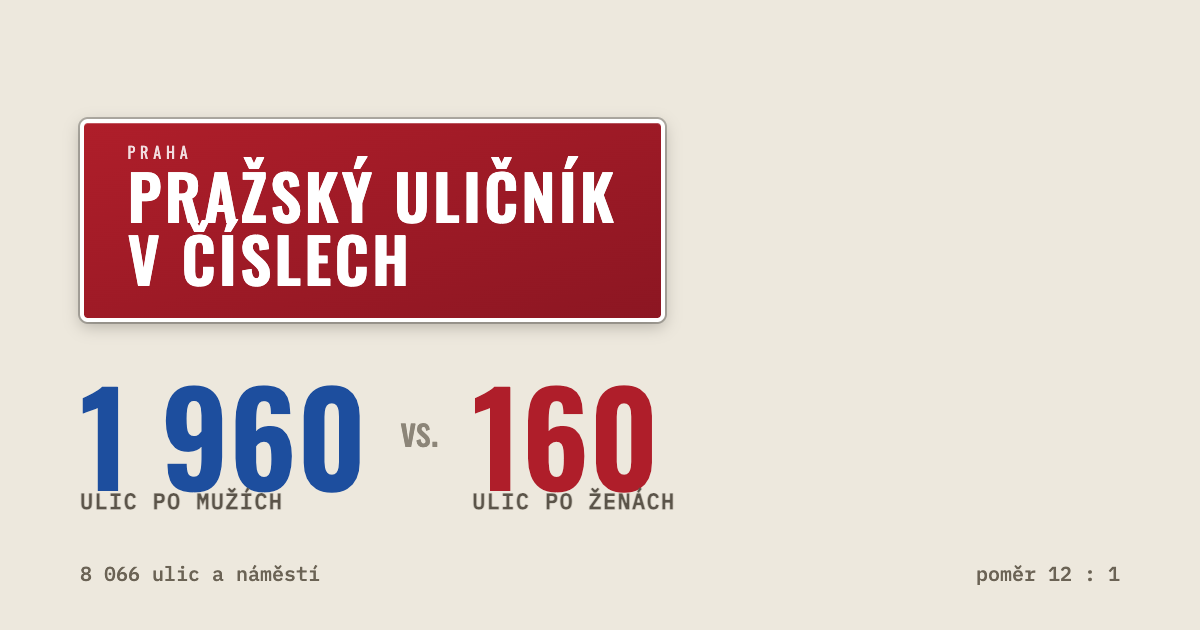
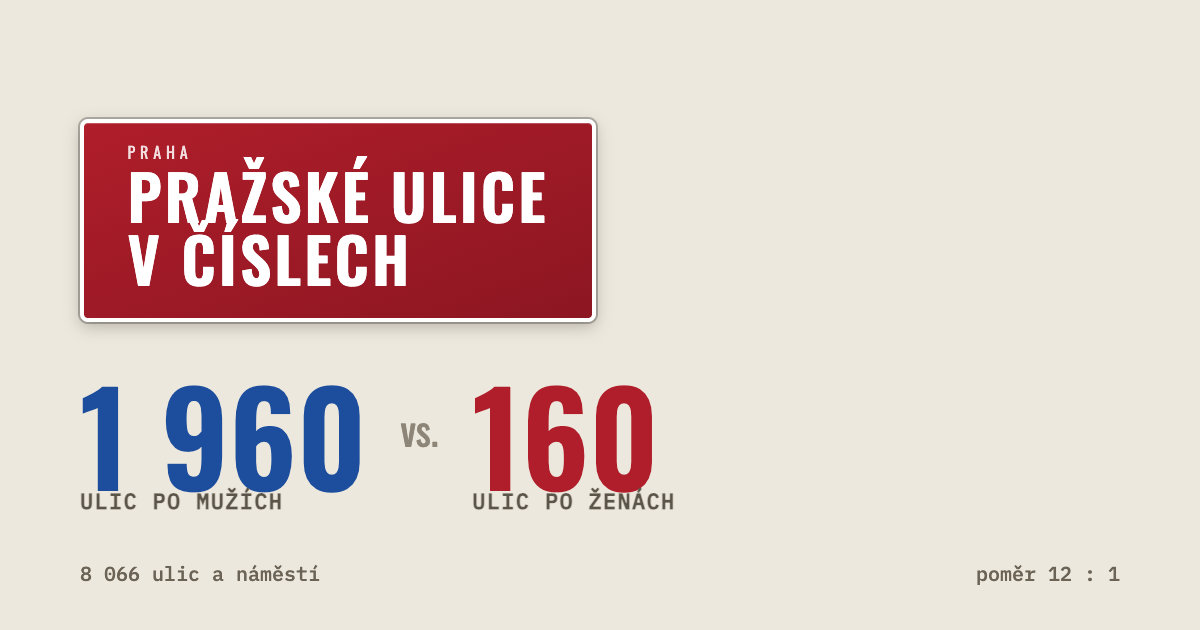
Rename project to 'Pražské ulice v číslech'
Avoid confusion with the existing Pražský uličník project
(Lašťovka et al., prazskyulicnik.cz). References to the original
Uličník as a source remain intact.

Changed region(s): [[0.2775, 0.181, 0.555, 0.5429]]

diff --git a/web/index.html b/web/index.html
@@ -3,7 +3,7 @@
 <head>
 <meta charset="utf-8">
 <meta name="viewport" content="width=device-width, initial-scale=1">
-<title>Pražský uličník v číslech</title>
+<title>Pražské ulice v číslech</title>
 <meta name="description" content="8 066 pražských ulic v číslech. 1 960 pojmenovaných po mužích, 160 po ženách. Statistiky a jazykové funfakty o názvech pražských ulic a náměstí.">
 
 <!-- favicon: mini smaltovaná cedule -->
@@ -13,14 +13,14 @@
      přepiš og:url a og:image na absolutní URL té domény. -->
 <meta property="og:type" content="website">
 <meta property="og:locale" content="cs_CZ">
-<meta property="og:title" content="Pražský uličník v číslech">
+<meta property="og:title" content="Pražské ulice v číslech">
 <meta property="og:description" content="8 066 pražských ulic. 1 960 pojmenovaných po mužích, 160 po ženách.">
 <meta property="og:url" content="https://miloscermak.github.io/prazske-ulice/">
 <meta property="og:image" content="https://miloscermak.github.io/prazske-ulice/og-image.png">
 <meta property="og:image:width" content="1200">
 <meta property="og:image:height" content="630">
 <meta name="twitter:card" content="summary_large_image">
-<meta name="twitter:title" content="Pražský uličník v číslech">
+<meta name="twitter:title" content="Pražské ulice v číslech">
 <meta name="twitter:description" content="8 066 pražských ulic. 1 960 pojmenovaných po mužích, 160 po ženách.">
 <meta name="twitter:image" content="https://miloscermak.github.io/prazske-ulice/og-image.png">
 
@@ -145,7 +145,7 @@ footer{margin-top:100px;padding-top:24px;border-top:1px solid var(--line);font-s
 <body>
 <main>
 <header>
-  <div class="sign hero-sign"><small>Hlavní město Praha</small>Pražský uličník<br>v&nbsp;číslech</div>
+  <div class="sign hero-sign"><small>Hlavní město Praha</small>Pražské ulice<br>v&nbsp;číslech</div>
   <p class="sub">Co říkají názvy <strong id="celkem">—</strong> pražských ulic a náměstí o tom, koho si tohle město chce pamatovat.</p>
   <span id="demo-badge">ukázková data — spusť pipeline pro skutečná čísla</span>
 </header>

diff --git a/PREDAVACI-PROTOKOL.md b/PREDAVACI-PROTOKOL.md
@@ -1,4 +1,8 @@
-# PŘEDÁVACÍ PROTOKOL — Pražský uličník v číslech
+# PŘEDÁVACÍ PROTOKOL — Pražské ulice v číslech
+
+Pozn.: Projekt se původně jmenoval „Pražský uličník v číslech", přejmenováno
+3. 7. 2026 kvůli kolizi s existujícím projektem Pražský uličník (Lašťovka,
+prazskyulicnik.cz).
 
 Datum předání: 3. 7. 2026 (aktualizováno po dokončení fáze pohlaví + kvíz)
 Stav: v1.5 — data kompletní, pohlaví doplněno, kvíz hotový, web běží

diff --git a/README.md b/README.md
@@ -1,4 +1,4 @@
-# Pražský uličník v číslech
+# Pražské ulice v číslech
 
 Statistiky a funfakty o názvech cca 7 800 pražských ulic a náměstí.
 Pipeline: Wikidata (SPARQL) → LLM doklasifikace (OpenRouter) → statický web.